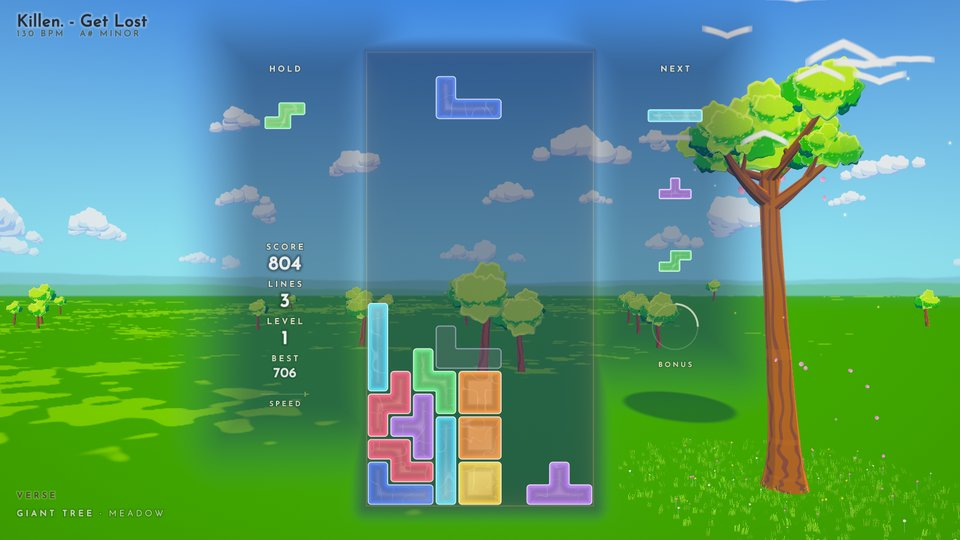
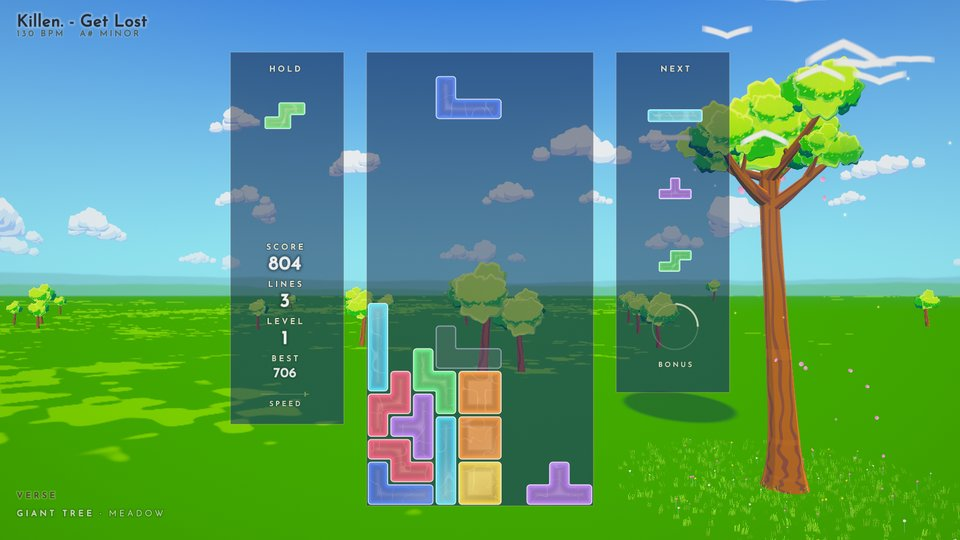
GIANT TREE: the HUD's columns in the well's material, apart from it (HOLD and the score, NEXT and the bonus gauge), the well and the columns cut clean with a fine rail of light, no longer soft gradients; README image re-shot
Claude-Session: https://claude.ai/code/session_01TRpCVe8qgHvBr5qwovmpX7

Changed region(s): [[0.1875, 0.0296, 0.8125, 0.9778]]

diff --git a/src/universes/gianttree/shaders.hpp b/src/universes/gianttree/shaders.hpp
@@ -1055,25 +1055,26 @@ void main() {
 )";
 
 // ---------------------------------------------------------------- the veil: the well and the HUD's columns
+// The well and the two columns in one material: a veil of the sky's colour, its edges cut clean (a pixel wide), a
+// fine rail of light along them.
 inline const char* VEIL_FS = R"(#version 330 core
 in vec2 vUv;
 out vec4 frag;
 uniform vec4 uView;
 uniform vec3 uVeil, uRail;
-uniform float uWellA, uColA, uRailA, uPx;
-uniform vec4 uColL, uColR;
+uniform float uWellA, uColK, uRailA, uPx;
+uniform vec4 uColL, uColR; // x0, y0, x1, y1
 float box(vec2 p, vec2 c, vec2 h) { vec2 q = abs(p - c) - h; return length(max(q, 0.0)) + min(max(q.x, q.y), 0.0); }
 void main() {
     vec2 w = uView.xy + (vUv * 2.0 - 1.0) * uView.zw;
-    float dw = box(w, vec2(0.0), vec2(5.0, 10.0));
-    float a = uWellA * (1.0 - smoothstep(-0.15, 0.9, dw));
-    for (int i = 0; i < 2; i++) {
-        vec4 r = i == 0 ? uColL : uColR;
-        float dc = box(w, (r.xy + r.zw) * 0.5, (r.zw - r.xy) * 0.5);
-        a = max(a, uColA * (1.0 - smoothstep(-1.5, 2.6, dc)));
+    float a = 0.0, rail = 0.0;
+    for (int i = 0; i < 3; i++) {
+        vec4 r = i == 0 ? vec4(-5.0, -10.0, 5.0, 10.0) : i == 1 ? uColL : uColR;
+        float d = box(w, (r.xy + r.zw) * 0.5, (r.zw - r.xy) * 0.5);
+        float k = i == 0 ? 1.0 : uColK;
+        a = max(a, uWellA * k * clamp(0.5 - d * uPx, 0.0, 1.0));
+        rail = max(rail, k * clamp(1.0 - abs(d) * uPx * 0.9, 0.0, 1.0) * 0.55);
     }
-    float rail = clamp(1.0 - abs(dw) * uPx * 0.9, 0.0, 1.0) * 0.55 + exp(-abs(dw) * 3.0) * 0.12;
-    rail *= smoothstep(10.3, 8.0, w.y) * 0.5 + 0.5;
     vec3 c = uVeil * a + uRail * rail * uRailA;
     frag = vec4(c, a);
 }

diff --git a/src/universes/gianttree/gianttree.cpp b/src/universes/gianttree/gianttree.cpp
@@ -1636,11 +1636,12 @@ void GiantTreeUniverse::render(const Frame& f, GLuint fbo) {
         set3f(progVeil_, "uVeil", lerp(pal_.veil, bridge_.color, bridge));
         set3f(progVeil_, "uRail", lerp(pal_.glow * 0.5f, bridge_.ink * 0.4f, bridge));
         set1f(progVeil_, "uWellA", pal_.night > 0.5f ? 0.8f : 0.72f);
-        set1f(progVeil_, "uColA", (pal_.night > 0.5f ? 0.4f : 0.66f + 0.08f * wp) * world);
+        set1f(progVeil_, "uColK", world);
         set1f(progVeil_, "uRailA", 0.5f);
         set1f(progVeil_, "uPx", pxPerUnit_);
-        set4f(progVeil_, "uColL", layout::LEFT_COLUMN[0], layout::LEFT_COLUMN[1], -5.f, layout::LEFT_COLUMN[3]);
-        set4f(progVeil_, "uColR", 5.f, layout::RIGHT_COLUMN[1], layout::RIGHT_COLUMN[2], layout::RIGHT_COLUMN[3]);
+        // the columns as the well, apart from it: HOLD and the score, NEXT and the bonus gauge
+        set4f(progVeil_, "uColL", -11.f, -6.4f, -6.f, 10.f);
+        set4f(progVeil_, "uColR", 6.f, -5.f, 11.f, 10.f);
         ugl::drawFullscreen();
     }
 
